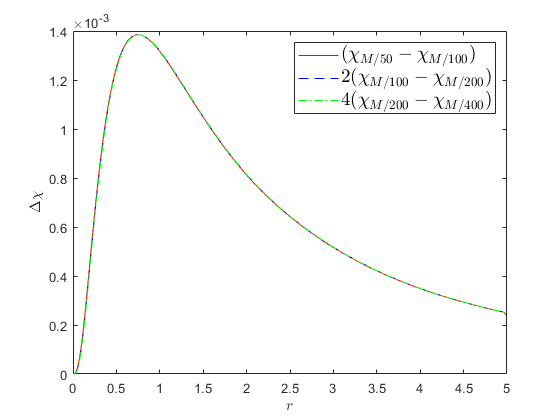
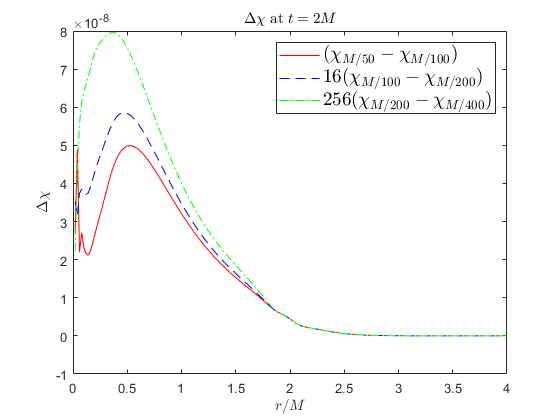
Fixed convergence plots, also shifted grid points (r_min+h, r_max) is the new grid. Will spend whole day software engineering now

diff --git a/bssn.m b/bssn.m
@@ -12,23 +12,22 @@ function bssn
     eta = 1; % eta parameter in the Gamma-driver condition
     n_var = 12; % number of functions to evolve
     r_min = 0;
-    r_max = 5;
+    r_max = 8;
     diss_on = 0; % dissipation (Kreiss-Oliger) on (=1) or off (=0)
     sigma = 0.1;
     puncture = 1;
     precollapse = 1;
-    h = 1/10; % spatial grid
+    h = 1/50; % spatial grid
     N=round((r_max-r_min)/h);
-    r=(r_min+h/2:h:r_max-h/2);
+    r=(r_min+h:h:r_max);
 
     
-    t_end = 2;
-    plot_RHS(20,r_min,r_max)
-    [U_coarse, t_size_coarse]=state_result(1/10, t_end);
-    [U_med, t_size_med]=state_result(1/20, t_end);
-    [U_fine, t_size_fine]=state_result(1/40, t_end);
-    [U_finest, t_size_finest]=state_result(1/80, t_end);
-    
+    t_end = 0.5;
+    %plot_RHS(20,r_min,r_max)
+    [U_coarse, t_size_coarse]=state_result(1/50, t_end);
+    [U_med, t_size_med]=state_result(1/100, t_end);
+    [U_fine, t_size_fine]=state_result(1/200, t_end);
+    [U_finest, t_size_finest]=state_result(1/400, t_end);     
     [alpha_coarse, beta_r_coarse, B_r_coarse, chi_coarse, g_rr_coarse,...
     g_thth_coarse, A_rr_coarse, K_coarse, Gamma_r_coarse, H_coarse, M_r_coarse, G_coarse]=var_t(U_coarse);
     [alpha_med, beta_r_med, B_r_med, chi_med, g_rr_med, g_thth_med,...
@@ -38,18 +37,26 @@ function bssn
     [alpha_finest, beta_r_finest, B_r_finest, chi_finest, g_rr_finest, g_thth_finest,...
     A_rr_finest, K_finest, Gamma_r_finest, H_finest, M_r_finest, G_finest]=var_t(U_finest) ;
     
-    error_medcoarse = error(beta_r_med(1:2:2*N, t_size_med), beta_r_coarse(:, t_size_coarse));
-    error_finemed = 2*error(beta_r_fine(1:4:N*4, t_size_fine),beta_r_med(1:2:2*N, t_size_med));
-    error_finestfine = 4*error(beta_r_finest(1:8:N*8, t_size_finest),beta_r_fine(1:4:4*N, t_size_fine));
-    plot(r, error_medcoarse, '-r');
+    size(chi_finest)
+%      error_medcoarse = error(chi_med(1:2:2*N, 1), chi_coarse(:, 1));
+%      error_finemed = 2*error(chi_fine(1:4:N*4, 1),chi_med(1:2:2*N, 1));
+%      error_finestfine = 4*error(chi_finest(1:8:N*8, 1),chi_fine(1:4:4*N, 1));
+     error_medcoarse = error(chi_med(2:2:2*N, t_size_med), chi_coarse(:, t_size_coarse));
+     error_finemed = 16*error(chi_fine(4:4:N*4, t_size_fine),chi_med(2:2:2*N, t_size_med));
+     error_finestfine = 16^2*error(chi_finest(8:8:N*8, t_size_finest),chi_fine(4:4:4*N, t_size_fine));
+    size(r)
+    size(error_medcoarse)
+    plot(r.', error_medcoarse, '-r');
     hold on
-    plot(r, error_finemed, 'b--');
-    plot(r, error_finestfine, 'g-.');
-    xlabel('$r$','Interpreter','latex');
+    plot(r.', error_finemed, 'b--');
+    plot(r.', error_finestfine, 'g-.');
+    xlabel('$r/M$','Interpreter','latex');
     ylabel('$\Delta \chi$','Interpreter','latex') ;
-    l=legend('$(\beta^r_{M/50}-\beta^r_{M/100})$', '$2(\beta^r_{M/100}-\beta^r_{M/200})$', '$4(\beta^r_{M/200}-\beta^r_{M/400})$');
+    title('$\Delta \chi$ at $t = 0.5M$', 'Interpreter', 'latex');
+    l=legend('$(\chi_{M/50}-\chi_{M/100})$', '$16(\chi_{M/100}-\chi_{M/200})$', '$256(\chi_{M/200}-\chi_{M/400})$');
     set(l, 'Interpreter', 'latex');
     set(l, 'FontSize', 14);
+    xlim([0,4])
     %plotting
 %     plot(r,chi_coarse(:, t_size_coarse), 'r')
 %     hold on
@@ -89,25 +96,25 @@ function bssn
 % Horizon computation
 
 
-[horsize_r,horsize_t] = size(var_t(U));
-hor=zeros(horsize_t,1);
-time=zeros(horsize_t,1);
-Theta=zeros(horsize_r,horsize_t);
-        % Horizon
-    for iter=1:horsize_t
-        time(iter) = t_end/horsize_t*iter;
-        [hor(iter),Theta(:,iter)] = Hor(g_rr(:,iter),g_thth(:,iter),K(:,iter),A_rr(:,iter),chi(:,iter),N,r,h);
-%  
-%         plot(r,Theta(:,iter))
-%         xlabel('r')
-%         ylabel('Expansion')
-%         pause(0.001)
-     end
-
-%      figure(2)
-     plot(time,hor)
-     xlabel('t')
-     ylabel('Horizon')   
+% [horsize_r,horsize_t] = size(var_t(U));
+% hor=zeros(horsize_t,1);
+% time=zeros(horsize_t,1);
+% Theta=zeros(horsize_r,horsize_t);
+%         % Horizon
+%     for iter=1:horsize_t
+%         time(iter) = t_end/horsize_t*iter;
+%         [hor(iter),Theta(:,iter)] = Hor(g_rr(:,iter),g_thth(:,iter),K(:,iter),A_rr(:,iter),chi(:,iter),N,r,h);
+% %  
+% %         plot(r,Theta(:,iter))
+% %         xlabel('r')
+% %         ylabel('Expansion')
+% %         pause(0.001)
+%      end
+% 
+% %      figure(2)
+%      plot(time,hor)
+%      xlabel('t')
+%      ylabel('Horizon')   
      
       
 % 
@@ -126,15 +133,16 @@ function [U, t_size]=state_result(h, t_end)
     global r_min
     global r_max
     N=round((r_max-r_min)/h);
-    r=(r_min+h/2:h:r_max-h/2);
+    r=(r_min+h:h:r_max);
     
     % time at which we want to end the simulation
     % time to solve the equations
     tspan = [0 t_end];
-    
+    %tspan = 0:1/400/4:t_end;
     y0 = initial_cond(h,r_min,r_max);
-    options = odeset('RelTol',1e-12,'AbsTol',1e-12);
-    [t,y] = ode45(@(t,y) dydt(t,y,h,N),tspan,y0, options);
+    y0=reshape(y0, [], 1);
+    %options = odeset('RelTol',1e-12,'AbsTol',1e-12);
+    [t,y] = ode45(@(t,y) dydt(t,y,h,N),tspan,y0);
 
     %getting the output size
     [t_size,y_size] = size(y);
@@ -156,16 +164,28 @@ function U=dydt(t, v_old, h, N)
     U = zeros(n_var*N,1);
     % unpacking our previous state
     v_old=reshape(v_old,[],n_var);
-    r=(r_min+h/2:h:r_max-h/2);
-    [alpha, beta_r, B_r, chi, g_rr, g_thth, A_rr, K, Gamma_r, H, M_r, G] = unpackage(v_old);
+    r=(r_min+h:h:r_max);
+    
+    alpha = v_old(:,1);
+    beta_r = v_old(:,2);
+    B_r = v_old(:,3);
+    chi=v_old(:,4);
+    g_rr=v_old(:,5);
+    g_thth=v_old(:,6);
+    A_rr=v_old(:,7);
+    K=v_old(:,8);
+    Gamma_r=v_old(:,9);
+    H=v_old(:,10);
+    M_r=v_old(:,11);
+    G=v_old(:,12);
 
     
     % radial derivatives
     
     % precollapsed alpha or unity
     if precollapse == 1
-        alpha_p = f_prime(alpha,h,alpha(2),alpha(1),power(1+0.5/(r_max+h/2),-2),power(1+1/2/(r_max+3*h/2),-2),N);
-        alpha_pp = f_pprime(alpha,h,alpha(2),alpha(1),power(1+0.5/(r_max+h/2),-2),power(1+1/2/(r_max+3*h/2),-2),N);
+        alpha_p = f_prime(alpha,h,alpha(2),alpha(1),power(1+0.5/(r_max+h),-2),power(1+1/2/(r_max+2*h),-2),N);
+        alpha_pp = f_pprime(alpha,h,alpha(2),alpha(1),power(1+0.5/(r_max+h),-2),power(1+1/2/(r_max+2*h),-2),N);
     else
         alpha_p = f_prime(alpha,h,alpha(2),alpha(1),1,1,N);
         alpha_pp = f_pprime(alpha,h,alpha(2),alpha(1),1,1,N);
@@ -179,22 +199,22 @@ function U=dydt(t, v_old, h, N)
         chi_p = f_prime(chi,h,chi(2),chi(1),1,1,N);
         chi_pp = f_pprime(chi,h,chi(2),chi(1),1,1,N);
     else
-        chi_p = f_prime(chi,h,chi(2),chi(1),power(1 + 1/2/(r_max+h/2), -4),power(1 + 1/2/(r_max+3*h/2), -4),N);
-        chi_pp = f_pprime(chi,h,chi(2),chi(1),power(1 + 1/2/(r_max+h/2), -4),power(1 + 1/2/(r_max+3*h/2),-4),N);
+        chi_p = f_prime(chi,h,chi(2),chi(1),power(1 + 1/2/(r_max+h), -4),power(1 + 1/2/(r_max+2*h), -4),N);
+        chi_pp = f_pprime(chi,h,chi(2),chi(1),power(1 + 1/2/(r_max+h), -4),power(1 + 1/2/(r_max+2*h),-4),N);
     end
     g_rr_p = f_prime(g_rr,h,g_rr(2),g_rr(1),1,1,N);
     g_rr_pp = f_pprime(g_rr,h,g_rr(2),g_rr(1),1,1,N);
-    g_thth_p = f_prime(g_thth,h,g_thth(2), g_thth(1), (r_max+h/2)^2,(r_max+3*h/2)^2,N);
-    g_thth_pp = f_pprime(g_thth,h,g_thth(2), g_thth(1),(r_max+h/2)^2,(r_max+3*h/2)^2,N);
+    g_thth_p = f_prime(g_thth,h,g_thth(2), g_thth(1), (r_max+h)^2,(r_max+2*h)^2,N);
+    g_thth_pp = f_pprime(g_thth,h,g_thth(2), g_thth(1),(r_max+h)^2,(r_max+2*h)^2,N);
     A_rr_p =  f_prime(A_rr,h,A_rr(2),A_rr(1),0,0,N);
     K_p = f_prime(K,h,K(2),K(1),0,0,N);
-    Gamma_r_p = f_prime(Gamma_r,h,-Gamma_r(2),-Gamma_r(1),-2/(r_max+h/2),-2/(r_max+3*h/2),N);
+    Gamma_r_p = f_prime(Gamma_r,h,-Gamma_r(2),-Gamma_r(1),-2/(r_max+h),-2/(r_max+2*h),N);
     % The initial conditions below are what we used before for r_min = 1.
     % at r_min = 0 some stuff go wrong
     if r_min ~= 0
-        g_thth_p = f_prime(g_thth,h,(r_min-3*h/2)^2,(r_min-h/2)^2,(r_max+h/2)^2,(r_max+3*h/2)^2,N);
-        g_thth_pp = f_pprime(g_thth,h,(r_min-3*h/2)^2,(r_min-h/2)^2,(r_max+h/2)^2,(r_max+3*h/2)^2,N);
-        Gamma_r_p = f_prime(Gamma_r,h,-2/(r_min-3*h/2),-2/(r_min-h/2),-2/(r_max+h/2),-2/(r_max+3*h/2) ,N);
+        g_thth_p = f_prime(g_thth,h,(r_min-2*h)^2,(r_min-h)^2,(r_max+h)^2,(r_max+2*h)^2,N);
+        g_thth_pp = f_pprime(g_thth,h,(r_min-2*h)^2,(r_min-h)^2,(r_max+h)^2,(r_max+2*h)^2,N);
+        Gamma_r_p = f_prime(Gamma_r,h,-2/(r_min-2*h),-2/(r_min-h),-2/(r_max+h),-2/(r_max+2*h) ,N);
     end
 
 
@@ -212,7 +232,7 @@ function U=dydt(t, v_old, h, N)
     else
         alpha_t = beta_r.*alpha_p-2*alpha.*K...
                   +diss_on*KreissOliger(alpha,sigma,h,alpha(3),alpha(2),alpha(1),...
-                  power(1+1/2./(r_max+h/2),-2),power(1+1/2/(r_max+3*h/2),-2),power(1+1/2/(r_max+5*h/2),-2),N); % eqn 1
+                  power(1+1/2./(r_max+h),-2),power(1+1/2/(r_max+2*h),-2),power(1+1/2/(r_max+3*h),-2),N); % eqn 1
     end
     beta_r_t = 3/4*B_r+beta_r.*beta_r_p...
                +diss_on*KreissOliger(beta_r,sigma,h,-beta_r(3),-beta_r(2),-beta_r(1),0,0,0,N); % note this is only 2a), what is B_r?
@@ -220,7 +240,7 @@ function U=dydt(t, v_old, h, N)
             -2*v.*beta_r.*g_thth_p.*chi./(3*g_thth)-2/3*v.*beta_r_p.*chi...
             +beta_r.*chi_p...
             +diss_on*KreissOliger(chi,sigma,h,chi(3),chi(2),chi(1),...
-            power(1 + 1/2/(r_max+h/2), -4),power(1 + 1/2/(r_max+3*h/2), -4),power(1 + 1/2/(r_max+5*h/2), -4),N);
+            power(1 + 1/2/(r_max+h), -4),power(1 + 1/2/(r_max+2*h), -4),power(1 + 1/2/(r_max+3*h), -4),N);
     g_rr_t = -2*A_rr.*alpha-v.*beta_r.*g_rr_p./3+beta_r.*g_rr_p...
              -2*g_rr.*v.*beta_r.*g_thth_p./(3*g_thth)+2*g_rr.*beta_r_p...
              -2/3*g_rr.*v.*beta_r_p...
@@ -228,7 +248,7 @@ function U=dydt(t, v_old, h, N)
     g_thth_t = A_rr.*g_thth.*alpha./g_rr-g_thth.*v.*beta_r.*g_rr_p./(3*g_rr)...
                -2/3*v.*beta_r.*g_thth_p+beta_r.*g_thth_p...
                -2/3*g_thth.*v.*beta_r_p...
-               +diss_on*KreissOliger(g_thth,sigma,h,g_thth(3),g_thth(2),g_thth(1),(r_max+h/2)^2,(r_max+3*h/2)^2,(r_max+5*h/2)^2,N);
+               +diss_on*KreissOliger(g_thth,sigma,h,g_thth(3),g_thth(2),g_thth(1),(r_max+h)^2,(r_max+2*h)^2,(r_max+3*h)^2,N);
     A_rr_t = -2*alpha.*A_rr.^2./g_rr+K.*alpha.*A_rr-v.*beta_r.*g_rr_p.*A_rr./(3*g_rr)...
              -2*v.*beta_r.*g_thth_p.*A_rr./(3*g_thth)-2/3*v.*beta_r_p.*A_rr...
              +2*beta_r_p.*A_rr+2*alpha.*chi.*g_rr_p.^2./(3*g_rr.^2)... % end of first line
@@ -253,7 +273,7 @@ function U=dydt(t, v_old, h, N)
                -3*A_rr.*alpha.*chi_p./(g_rr.^2.*chi)+v.*beta_r.*g_rr_pp./(6*g_rr.^2)...
                +v.*beta_r.*g_thth_pp./(3*g_rr.*g_thth)+v.*beta_r_pp./(3*g_rr)...
                +beta_r_pp./g_rr...
-               +diss_on*KreissOliger(Gamma_r,sigma,h,-Gamma_r(3),-Gamma_r(2),-Gamma_r(1),-2/(r_max+h/2),-2/(r_max+3*h/2),-2/(r_max+5*h/2),N);
+               +diss_on*KreissOliger(Gamma_r,sigma,h,-Gamma_r(3),-Gamma_r(2),-Gamma_r(1),-2/(r_max+h),-2/(r_max+2*h),-2/(r_max+3*h),N);
     % This has to be here since it uses Gamma_r_t
     B_r_t = Gamma_r_t- eta.*B_r+beta_r.*B_r_p - beta_r.*Gamma_r_p ...
            +diss_on*KreissOliger(K,sigma,h,-B_r(3),-B_r(2),-B_r(1),0,0,0,N);
@@ -314,7 +334,7 @@ function v_old=initial_cond(h,r_min,r_max)
     global precollapse
     M =1;
     N=round((r_max-r_min)/h);
-    r=(r_min+h/2:h:r_max-h/2);
+    r=(r_min+h:h:r_max);
     v_old=zeros(N,n_var);
     % flat initial conditions
     %%%%%%%%%%%%%%%%%%%%%%%%%%%%%%%%%%%
@@ -352,8 +372,8 @@ function v_old=initial_cond(h,r_min,r_max)
         alpha_p = f_prime(alpha,h,1,1,1,1,N);
         alpha_pp = f_pprime(alpha,h,1,1,1,1,N);
     else
-        alpha_p = f_prime(alpha,h,0,0,power(1+M/2./(r_max+h/2),-2),power(1+M/2./(r_max+h/2),-2),N);
-        alpha_pp = f_pprime(alpha,h,power(1+M/2./(r_max+h/2),-2),power(1+M/2./(r_max+h/2),-2),1,1,N);
+        alpha_p = f_prime(alpha,h,power(1+M/2./(r_min-2*h),-2),power(1+M/2./(r_min-h),-2),power(1+M/2./(r_max+h),-2),power(1+M/2./(r_max+2*h),-2),N);
+        alpha_pp = f_pprime(alpha,h,power(1+M/2./(r_min-2*h),-2),power(1+M/2./(r_min-h),-2),power(1+M/2./(r_max+h),-2),power(1+M/2./(r_max+2*h),-2),N);
     end
     beta_r_p = f_prime(beta_r,h,0,0,0,0,N);
     beta_r_pp = f_pprime(beta_r,h,0,0,0,0,N);
@@ -362,11 +382,11 @@ function v_old=initial_cond(h,r_min,r_max)
     chi_pp = f_pprime(chi,h,1,1,1,1,N);
     g_rr_p = f_prime(g_rr,h,1,1,1,1,N);
     g_rr_pp = f_pprime(g_rr,h,1,1,1,1,N);
-    g_thth_p = f_prime(g_thth,h,(r_min-3*h/2)^2,(r_min-h/2)^2,(r_max+h/2)^2,(r_max+3*h/2)^2,N);
-    g_thth_pp = f_pprime(g_thth,h,(r_min-3*h/2)^2,(r_min-h/2)^2,(r_max+h/2)^2,(r_max+3*h/2)^2,N);
+    g_thth_p = f_prime(g_thth,h,(r_min-2*h)^2,(r_min-h)^2,(r_max+h)^2,(r_max+2*h)^2,N);
+    g_thth_pp = f_pprime(g_thth,h,(r_min-2*h)^2,(r_min-h)^2,(r_max+h)^2,(r_max+2*h)^2,N);
     A_rr_p =  f_prime(A_rr,h,0,0,0,0,N);
     K_p = f_prime(K,h,0,0,0,0,N);
-    Gamma_r_p = f_prime(Gamma_r,h, -2/(r_min-3*h/2), -2/(r_min-h/2),-2/(r_max+h/2),-2/(r_max+3*h/2),N);
+    Gamma_r_p = f_prime(Gamma_r,h, -2/(r_min-2*h), -2/(r_min-h),-2/(r_max+h),-2/(r_max+2*h),N);
     
     % Building constraints
     H = -3/2*A_rr.*A_rr./g_rr./g_rr + 2/3.*K.*K - 5/2.*chi_p.*chi_p./chi./g_rr...
@@ -416,18 +436,7 @@ end
 % this function unpackages the *compressed* state vector v
 % N is the length of the grid
 function [alpha, beta_r, B_r, chi, g_rr, g_thth, A_rr, K, Gamma_r, H, M_r, G]=unpackage(v)
-    alpha = v(:,1);
-    beta_r = v(:,2);
-    B_r = v(:,3);
-    chi=v(:,4);
-    g_rr=v(:,5);
-    g_thth=v(:,6);
-    A_rr=v(:,7);
-    K=v(:,8);
-    Gamma_r=v(:,9);
-    H=v(:,10);
-    M_r=v(:,11);
-    G=v(:,12);
+    
 end
 
 % This function returns f'(x) where f is one of the state variables
